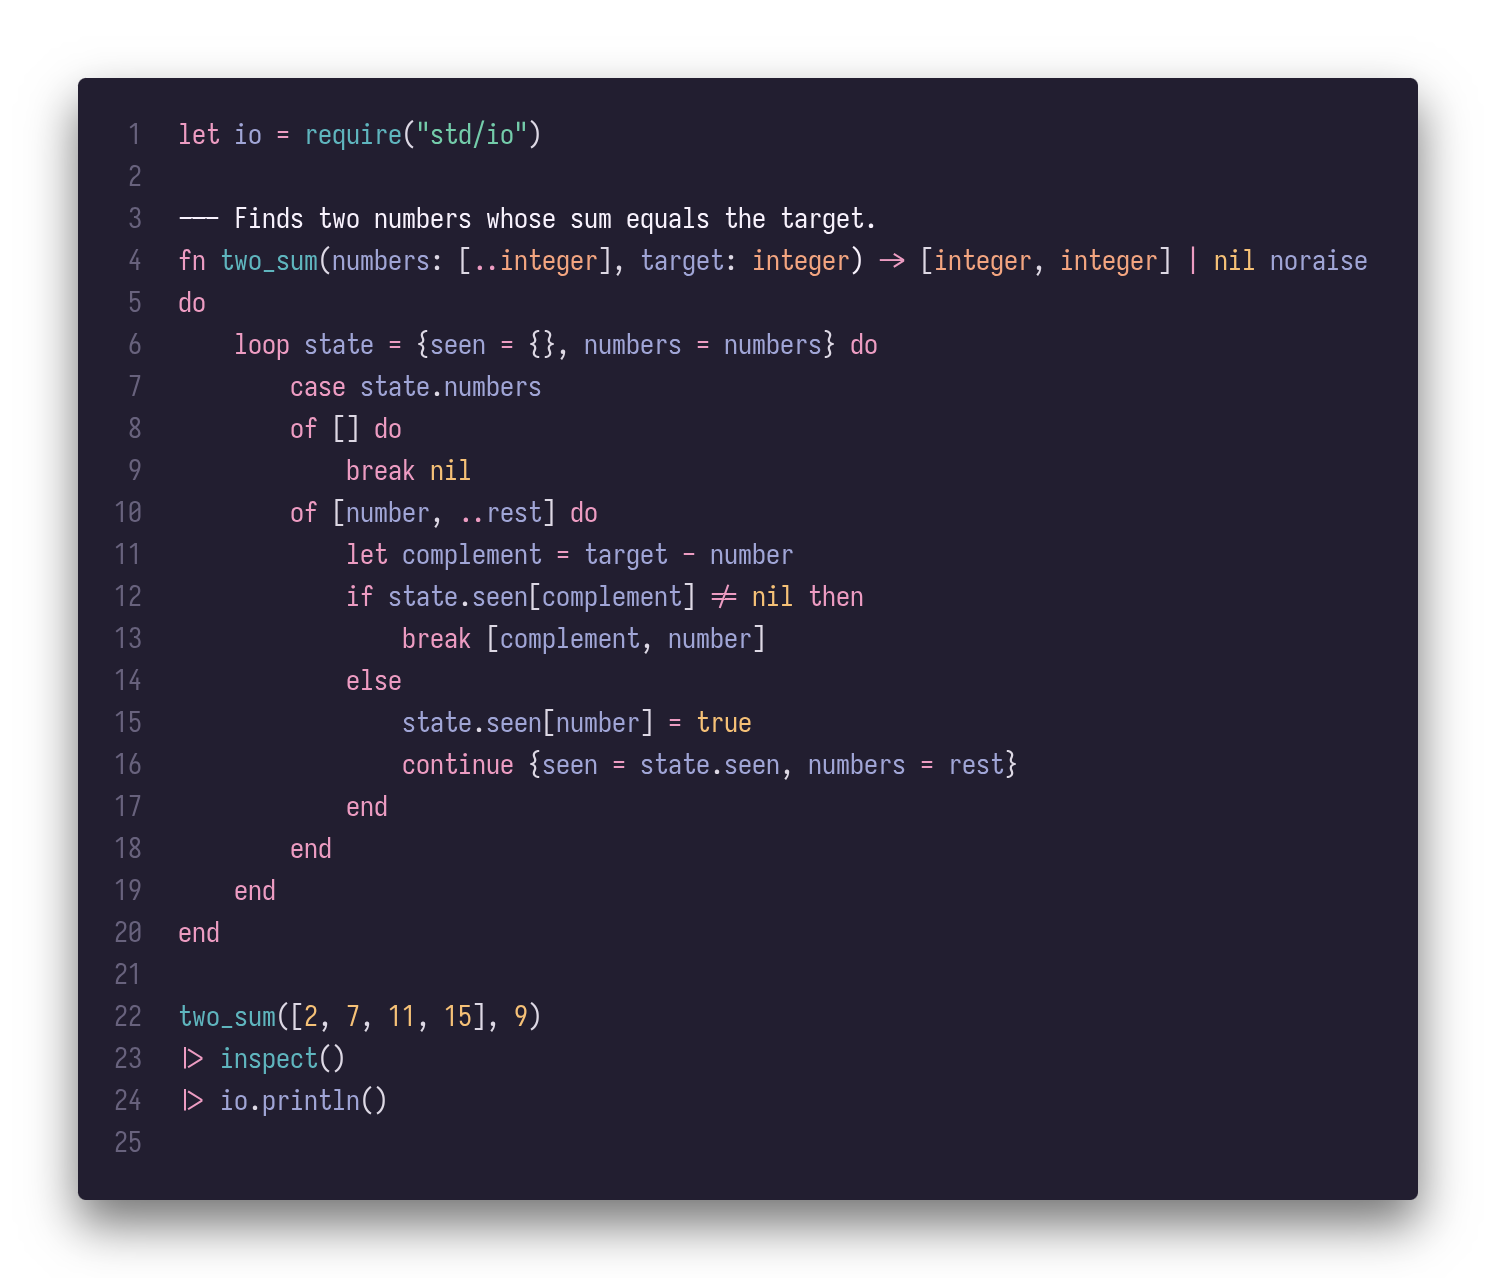
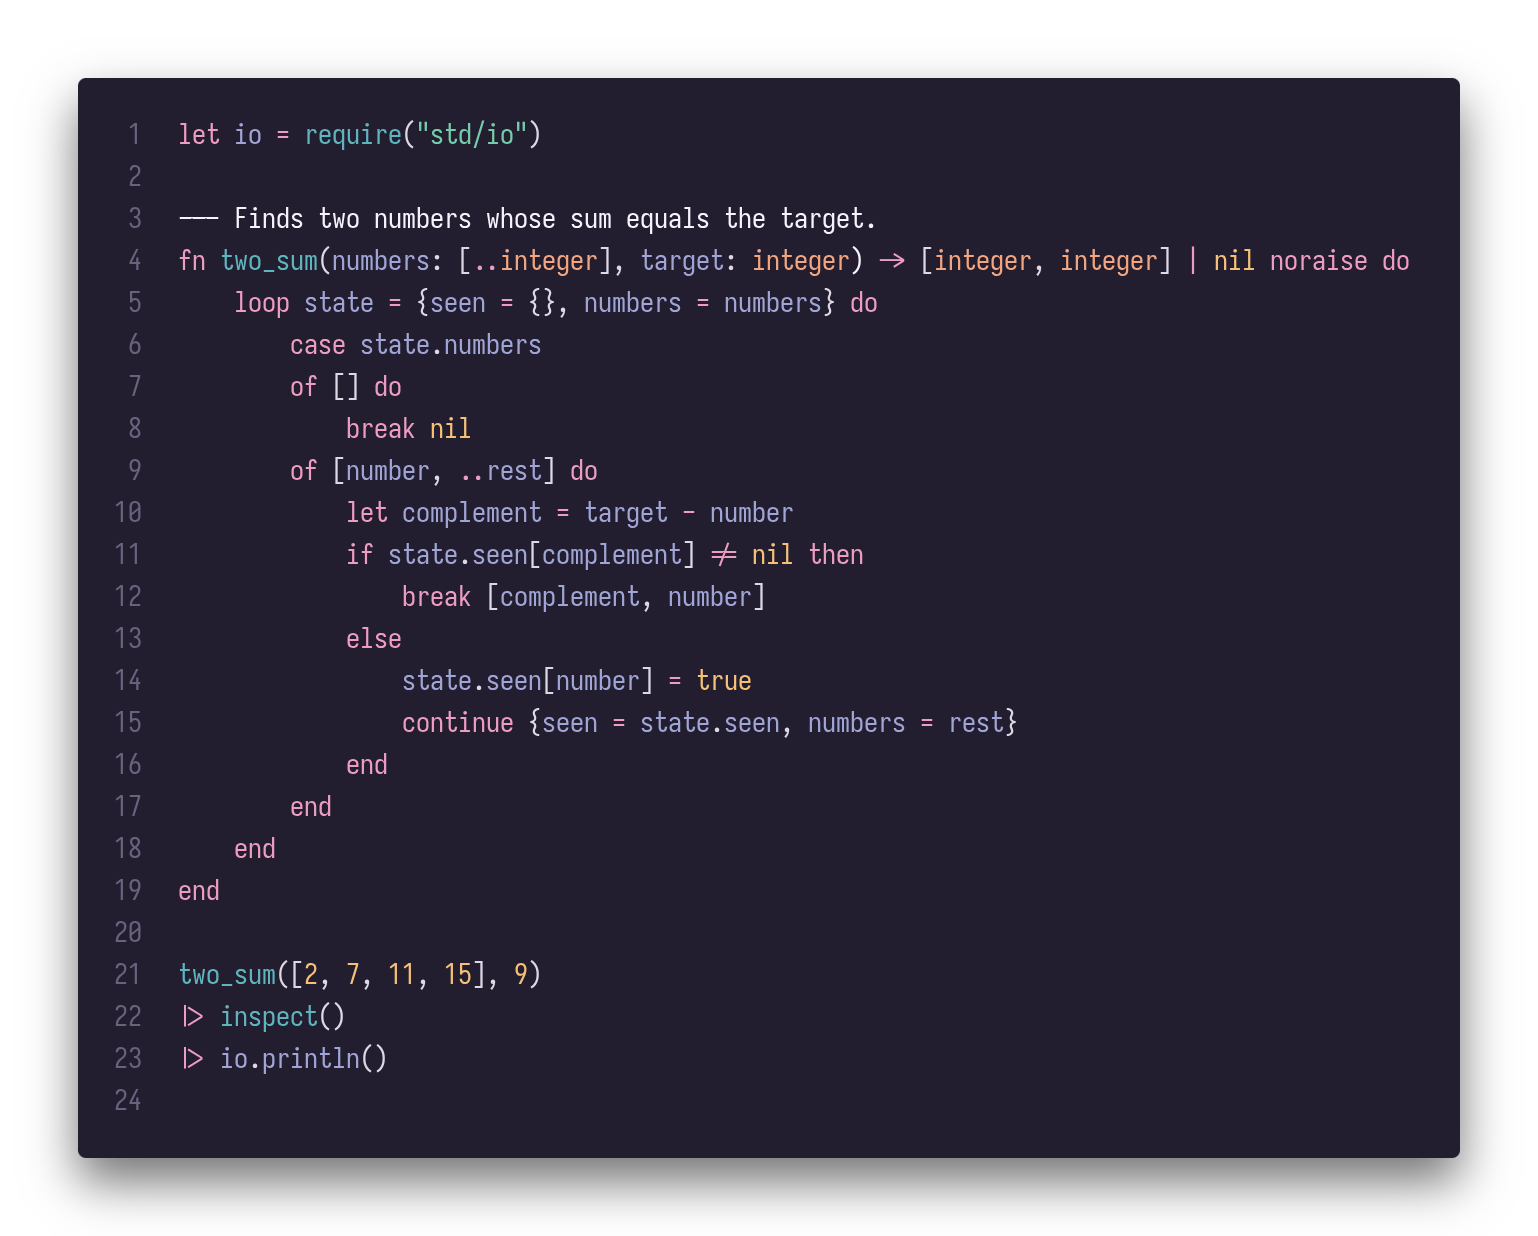
Refresh the two sum README showcase

diff --git a/README.md b/README.md
@@ -24,8 +24,7 @@ greet("Simi")
 let io = require("std/io")
 
 --- Finds two numbers whose sum equals the target.
-fn two_sum(numbers: [..integer], target: integer) -> [integer, integer] | nil noraise
-do
+fn two_sum(numbers: [..integer], target: integer) -> [integer, integer] | nil noraise do
     loop state = {seen = {}, numbers = numbers} do
         case state.numbers
         of [] do
